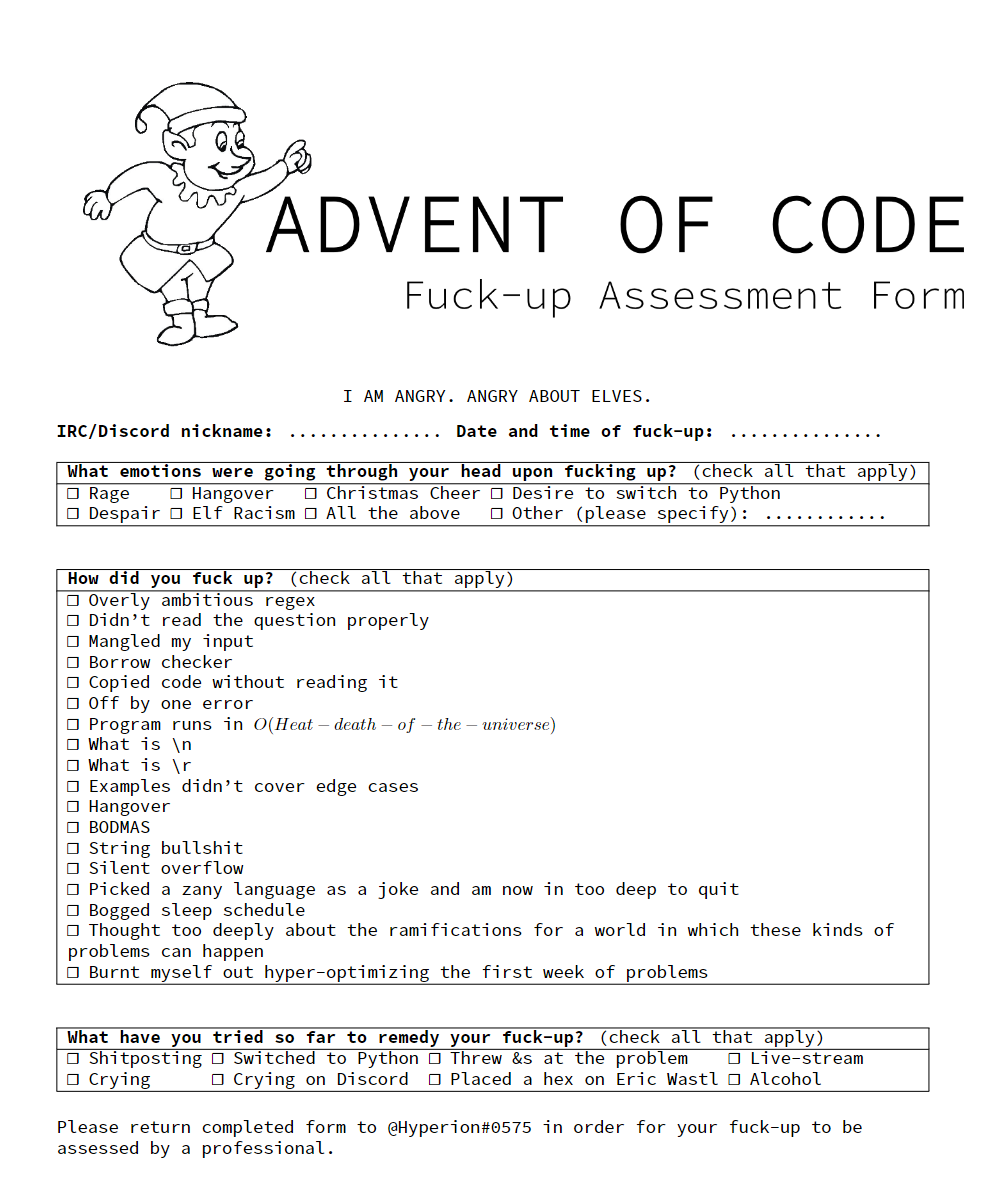
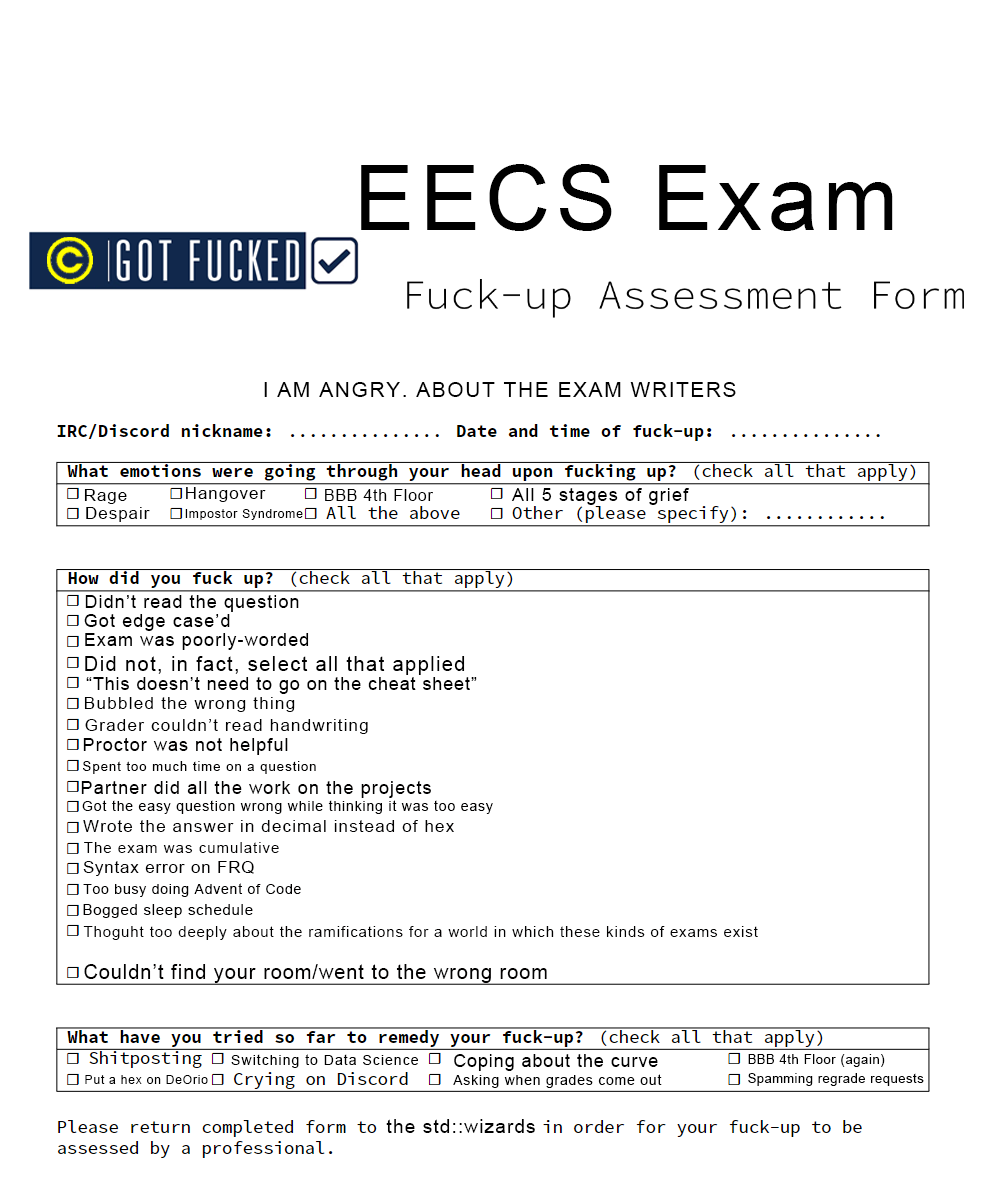
updated files

diff --git a/index.html b/index.html
@@ -1,9 +1,10 @@
 <!DOCTYPE html>
 <html lang="en">
+
 <head>
     <meta charset="UTF-8">
     <meta name="viewport" content="width=device-width, initial-scale=1.0">
-    <title>Advent of Code Assessment Form</title>
+    <title>EECS Exam Assessment Form</title>
     <style>
         body {
             font-family: Source Code Pro, monospace;
@@ -13,6 +14,7 @@
             display: flex;
             flex-direction: column;
         }
+
         .header {
             position: sticky;
             top: 0;
@@ -23,19 +25,23 @@
             color: #00cc00;
             background: #0f0f23;
         }
+
         a {
             color: #00cc00;
             text-decoration: none;
         }
+
         a:hover {
             text-decoration: underline;
         }
+
         .content {
             display: flex;
             flex-wrap: wrap;
             max-width: calc(100vw - 40px);
             gap: 1rem;
         }
+
         #canvasContainer {
             flex: 1;
             text-align: center;
@@ -43,15 +49,18 @@
             flex-direction: column;
             align-items: center;
         }
+
         #formContainer {
             flex: 1;
             margin-left: 20px;
         }
+
         canvas {
             border: 1px solid #009900;
             max-height: calc(100vh - 80px);
             max-width: calc(100vw - 80px);
         }
+
         button {
             background: #0f0f23;
             color: #009900;
@@ -62,9 +71,11 @@
             font-family: Source Code Pro, monospace;
             font-size: 1em;
         }
+
         button:hover {
             color: #00cc00;
         }
+
         input[type="text"] {
             background: #0f0f23;
             border: 1px solid #666666;
@@ -72,41 +83,49 @@
             padding: 2px 4px;
             font-family: Source Code Pro, monospace;
         }
+
         fieldset {
             border: 1px solid #009900;
             margin: 10px 0;
             padding: 10px;
             color: white;
         }
+
         legend {
             color: #009900;
             padding: 0 5px;
         }
+
         /* Hide default checkbox */
         input[type="checkbox"] {
             display: none;
         }
+
         /* Custom checkbox */
-        input[type="checkbox"] + label:before {
+        input[type="checkbox"]+label:before {
             content: '( )';
             color: white;
             margin-right: 5px;
             font-family: Source Code Pro, monospace;
         }
+
         /* Checked state */
-        input[type="checkbox"]:checked + label:before {
+        input[type="checkbox"]:checked+label:before {
             content: '(O)';
         }
+
         label {
             cursor: pointer;
         }
+
         #otherEmotionText {
             margin-left: 5px;
         }
     </style>
 </head>
+
 <body>
-    <div class="header"><a href="https://adventofcode.com/">Advent of Code</a> Fuck-up Assessment Form</div>
+    <div class="header"><a href="https://cse.engin.umich.edu/">EECS Exam</a> Fuck-up Assessment Form</div>
     <div class="content">
         <div id="canvasContainer">
             <canvas id="formCanvas"></canvas>
@@ -122,45 +141,83 @@
             <fieldset>
                 <legend>What emotions were going through your head upon fucking up? (check all that apply)</legend>
                 <input type="checkbox" id="rage" name="emotions" value="Rage"><label for="rage">Rage</label><br>
-                <input type="checkbox" id="hangover" name="emotions" value="Hangover"><label for="hangover">Hangover</label><br>
-                <input type="checkbox" id="christmas" name="emotions" value="Christmas Cheer"><label for="christmas">Christmas Cheer</label><br>
-                <input type="checkbox" id="python" name="emotions" value="Desire to switch to Python"><label for="python">Desire to switch to Python</label><br>
-                <input type="checkbox" id="despair" name="emotions" value="Despair"><label for="despair">Despair</label><br>
-                <input type="checkbox" id="elf" name="emotions" value="Elf Racism"><label for="elf">Elf Racism</label><br>
-                <input type="checkbox" id="all" name="emotions" value="All of the above"><label for="all">All of the above</label><br>
-                <input type="checkbox" id="other" name="emotions" value="Other (please specify)"><label for="other">Other (please specify): <input type="text" id="otherEmotionText"></label>
+                <input type="checkbox" id="hangover" name="emotions" value="Hangover"><label
+                    for="hangover">Hangover</label><br>
+                <input type="checkbox" id="christmas" name="emotions" value="Christmas Cheer"><label for="christmas">BBB
+                    4th Floor</label><br>
+                <input type="checkbox" id="python" name="emotions" value="Desire to switch to Python"><label
+                    for="python">All 5 stages of grief</label><br>
+                <input type="checkbox" id="despair" name="emotions" value="Despair"><label
+                    for="despair">Despair</label><br>
+                <input type="checkbox" id="elf" name="emotions" value="Elf Racism"><label for="elf">Impostor
+                    Syndrome</label><br>
+                <input type="checkbox" id="all" name="emotions" value="All of the above"><label for="all">All of the
+                    above</label><br>
+                <input type="checkbox" id="other" name="emotions" value="Other (please specify)"><label
+                    for="other">Other (please specify): <input type="text" id="otherEmotionText"></label>
             </fieldset>
             <fieldset>
                 <legend>How did you fuck up? (check all that apply):</legend>
-                <input type="checkbox" id="regex" name="reasons" value="Overly ambitious regex"><label for="regex">Overly ambitious regex</label><br>
-                <input type="checkbox" id="read_properly" name="reasons" value="Didn't read the question properly"><label for="read_properly">Didn't read the question properly</label><br>
-                <input type="checkbox" id="mangled" name="reasons" value="Mangled my input"><label for="mangled">Mangled my input</label><br>
-                <input type="checkbox" id="borrow" name="reasons" value="Borrow checker"><label for="borrow">Borrow checker</label><br>
-                <input type="checkbox" id="copy" name="reasons" value="Copied code without reading it"><label for="copy">Copied code without reading it</label><br>
-                <input type="checkbox" id="off_by_one" name="reasons" value="Off by one error"><label for="off_by_one">Off by one error</label><br>
-                <input type="checkbox" id="heat_death" name="reasons" value="Program runs in O(Heat-death-of-the-universe)"><label for="heat_death">Program runs in O(Heat-death-of-the-universe)</label><br>
-                <input type="checkbox" id="\n" name="reasons" value="What is \n"><label for="\n">What is \n</label><br>
-                <input type="checkbox" id="\r" name="reasons" value="What is \r"><label for="\r">What is \r</label><br>
-                <input type="checkbox" id="edge_cases" name="reasons" value="Examples didn't cover edge cases"><label for="edge_cases">Examples didn't cover edge cases</label><br>
-                <input type="checkbox" id="hangover_reason" name="reasons" value="Hangover"><label for="hangover_reason">Hangover</label><br>
-                <input type="checkbox" id="bodmas" name="reasons" value="BODMAS"><label for="bodmas">BODMAS</label><br>
-                <input type="checkbox" id="string" name="reasons" value="String bullshit"><label for="string">String bullshit</label><br>
-                <input type="checkbox" id="overflow" name="reasons" value="Silent overflow"><label for="overflow">Silent overflow</label><br>
-                <input type="checkbox" id="zany_language" name="reasons" value="Picked a zany language as a joke and am now in too deep to quit"><label for="zany_language">Picked a zany language as a joke and am now in too deep to quit</label><br>
-                <input type="checkbox" id="bogged_sleep" name="reasons" value="Bogged sleep schedule"><label for="bogged_sleep">Bogged sleep schedule</label><br>
-                <input type="checkbox" id="thought" name="reasons" value="Thought to deeply about the ramifications for a world in which these kinds of problems can happen"><label for="thought">Thought to deeply about the ramifications for a world in which these kinds of problems can happen</label><br>
-                <input type="checkbox" id="burnt" name="reasons" value="Burnt myself out hyper-optimizing the first week of problems"><label for="burnt">Burnt myself out hyper-optimizing the first week of problems</label><br>
+                <input type="checkbox" id="regex" name="reasons" value="Overly ambitious regex"><label
+                    for="regex">Didn't read the question</label><br>
+                <input type="checkbox" id="read_properly" name="reasons"
+                    value="Didn't read the question properly"><label for="read_properly">Got edge case'd</label><br>
+                <input type="checkbox" id="mangled" name="reasons" value="Mangled my input"><label for="mangled">Exam
+                    was poorly-worded</label><br>
+                <input type="checkbox" id="borrow" name="reasons" value="Borrow checker"><label for="borrow">Did not, in
+                    fact, select all that applied</label><br>
+                <input type="checkbox" id="copy" name="reasons" value="Copied code without reading it"><label
+                    for="copy">"This doesn't need to go on the cheat sheet"</label><br>
+                <input type="checkbox" id="off_by_one" name="reasons" value="Off by one error"><label
+                    for="off_by_one">Bubbled the wrong thing</label><br>
+                <input type="checkbox" id="heat_death" name="reasons"
+                    value="Program runs in O(Heat-death-of-the-universe)"><label for="heat_death">Grader couldn't read
+                    the handwriting</label><br>
+                <input type="checkbox" id="\n" name="reasons" value="What is \n"><label for="\n">Proctor was not
+                    helpful</label><br>
+                <input type="checkbox" id="\r" name="reasons" value="What is \r"><label for="\r">Spent too much time on
+                    a question</label><br>
+                <input type="checkbox" id="edge_cases" name="reasons" value="Examples didn't cover edge cases"><label
+                    for="edge_cases">Partner did all the work on the projects</label><br>
+                <input type="checkbox" id="hangover_reason" name="reasons" value="Hangover"><label
+                    for="hangover_reason">Got the easy question wrong while thinking it was too easy</label><br>
+                <input type="checkbox" id="bodmas" name="reasons" value="BODMAS"><label for="bodmas">Wrote the answer in
+                    decimal instead of hex</label><br>
+                <input type="checkbox" id="string" name="reasons" value="String bullshit"><label for="string">The exam
+                    was cumulative</label><br>
+                <input type="checkbox" id="overflow" name="reasons" value="Silent overflow"><label for="overflow">Syntax
+                    error on FRQ</label><br>
+                <input type="checkbox" id="zany_language" name="reasons"
+                    value="Picked a zany language as a joke and am now in too deep to quit"><label
+                    for="zany_language">Too busy doing Advent of Code</label><br>
+                <input type="checkbox" id="bogged_sleep" name="reasons" value="Bogged sleep schedule"><label
+                    for="bogged_sleep">Bogged sleep schedule</label><br>
+                <input type="checkbox" id="thought" name="reasons"
+                    value="Thought to deeply about the ramifications for a world in which these kinds of problems can happen"><label
+                    for="thought">Thought to deeply about the ramifications for a world in which these kinds of exams
+                    exist</label><br>
+                <input type="checkbox" id="burnt" name="reasons"
+                    value="Burnt myself out hyper-optimizing the first week of problems"><label for="burnt">Couldn't
+                    find your room/went to the wrong room</label><br>
             </fieldset>
             <fieldset>
                 <legend>What have you tried so far to remedy your fuck-up? (check all that apply):</legend>
-                <input type="checkbox" id="shitposting" name="solutions" value="Shitposting"><label for="shitposting">Shitposting</label><br>
-                <input type="checkbox" id="switched_python" name="solutions" value="Switched to Python"><label for="switched_python">Switched to Python</label><br>
-                <input type="checkbox" id="&s" name="solutions" value="Threw &s at the problem"><label for="&s">Threw &s at the problem</label><br>
-                <input type="checkbox" id="live" name="solutions" value="Live-stream"><label for="live">Live-stream</label><br>
-                <input type="checkbox" id="crying" name="solutions" value="Crying"><label for="crying">Crying</label><br>
-                <input type="checkbox" id="discord" name="solutions" value="Crying on Discord"><label for="discord">Crying on Discord</label><br>
-                <input type="checkbox" id="eric" name="solutions" value="Placed a hex on Eric Wastl"><label for="eric">Placed a hex on Eric Wastl</label><br>
-                <input type="checkbox" id="alcohol" name="solutions" value="Alcohol"><label for="alcohol">Alcohol</label><br>
+                <input type="checkbox" id="shitposting" name="solutions" value="Shitposting"><label
+                    for="shitposting">Shitposting</label><br>
+                <input type="checkbox" id="switched_python" name="solutions" value="Switched to Python"><label
+                    for="switched_python">Switching to Data Science</label><br>
+                <input type="checkbox" id="&s" name="solutions" value="Threw &s at the problem"><label for="&s">Coping
+                    about the curve</label><br>
+                <input type="checkbox" id="live" name="solutions" value="Live-stream"><label for="live">BBB 4th Floor
+                    (again)</label><br>
+                <input type="checkbox" id="crying" name="solutions" value="Crying"><label for="crying">Putting a hex on
+                    DeOrio</label><br>
+                <input type="checkbox" id="discord" name="solutions" value="Crying on Discord"><label
+                    for="discord">Crying on Discord</label><br>
+                <input type="checkbox" id="eric" name="solutions" value="Placed a hex on Eric Wastl"><label
+                    for="eric">Asking for when grades come out</label><br>
+                <input type="checkbox" id="alcohol" name="solutions" value="Alcohol"><label for="alcohol">Spamming
+                    regrade requests</label><br>
             </fieldset>
         </div>
     </div>
@@ -228,7 +285,7 @@
                     "emotions:Elf Racism": { x: 106, y: 307 },
                     "emotions:All of the above": { x: 186, y: 307 },
                     "emotions:Other (please specify)": { x: 297, y: 307 },
-                    
+
                     // How did you fuck up section
                     "reasons:Overly ambitious regex": { x: 44, y: 360 },
                     "reasons:Didn't read the question properly": { x: 44, y: 371 },
@@ -248,7 +305,7 @@
                     "reasons:Bogged sleep schedule": { x: 44, y: 546 },
                     "reasons:Thought to deeply about the ramifications for a world in which these kinds of problems can happen": { x: 44, y: 558 },
                     "reasons:Burnt myself out hyper-optimizing the first week of problems": { x: 44, y: 582 },
-                    
+
                     // Solutions section
                     "solutions:Shitposting": { x: 44, y: 633 },
                     "solutions:Switched to Python": { x: 130, y: 633 },
@@ -293,4 +350,5 @@
         }
     </script>
 </body>
+
 </html>
